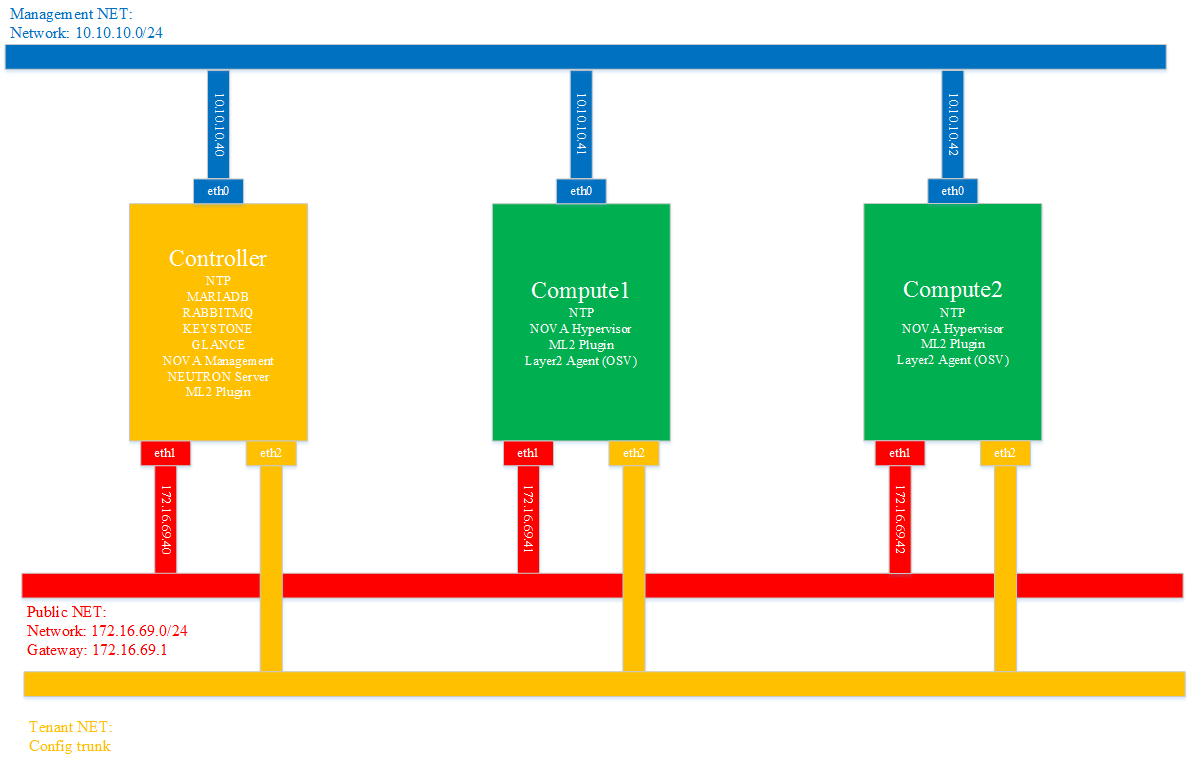
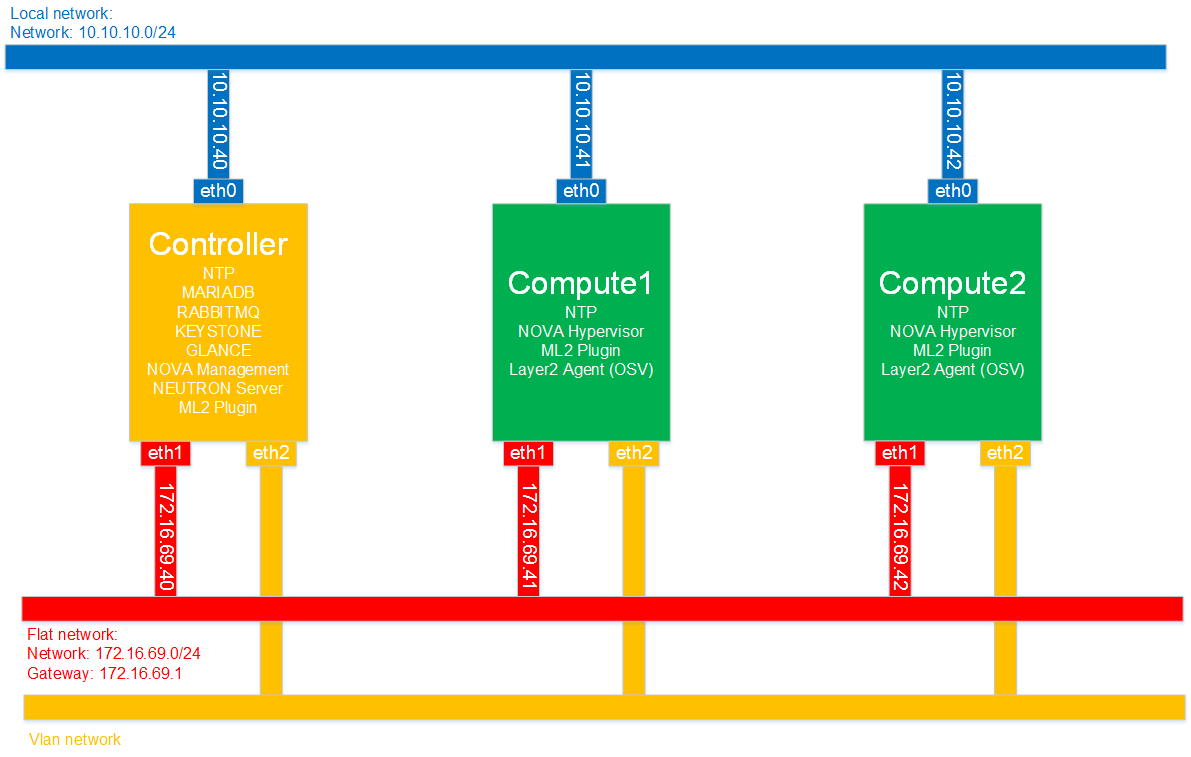
update

diff --git a/LAB-VLAN-OVS-Provider.md b/LAB-VLAN-OVS-Provider.md
@@ -47,6 +47,236 @@ Cấu hình card Loopback như một bridge trên Linux (switch Layer2).
 
 ### Cấu hình bridge
 
-- Sau khi tạo được Interface Loopback
+- Sau khi tạo được Interface Loopback, ta thiết lập một card bridge cho VMware workstation. Gắn card bridge này vào các Node để LAB Vlan. Đầu tiên bỏ interface loopback 
+trên Vmnet0
+
+![lab-vlan-8](/Images/lab-vlan-8.png)
+
+- Tạo thêm Vmnet3 ở chế độ bridge, gắn interface Loopback vào.
+
+![lab-vlan-9](/Images/lab-vlan-9.png)
+
+### Thiết lập cấu hình interface node
+
+- Cài đặt các máy ảo Ubuntu với một card mạng mặc định
+
+- Cài đặt xong, thực hiện thêm interface card mạng cho các Node như phía dưới
+
+![lab-vlan-10](/Images/lab-vlan-10.png)
+
+![lab-vlan-11](/Images/lab-vlan-11.png)
+
+![lab-vlan-12](/Images/lab-vlan-12.png)
+
+### Cài đặt OpenStack
+
+- Việc cài đặt tham khảo script tại [đây](https://github.com/congto/OpenStack-Mitaka-Scripts/tree/vlan/Ubuntu-OVS-VLAN)
+
+- Vì Controller tôi để 3GB RAM nên không cần cài đặt Horizon, giao tiếp mọi thứ qua CLI (command line interface).
+
+- Sau khi cài đặt xong, ta thực hiện tạo máy ảo theo Vlan được khai báo lúc tạo network.
+
+### Phân tích traffic
+
+- Mô hình các thành phần sau khi cài đặt xong OpenStack
+
+![lab-vlan-14](/Images/lab-vlan-14.png)
+
+- Sau đây tôi sẽ phân tích traffic từ VM tới DHCP theo các bước trong hình sau:
+
+![lab-vlan-15](/Images/lab-vlan-15.png)
+
+- Tôi sẽ nói lại một vài bước tạo network, subnet, instance.
+
+- Tạo network với Vlan 101:
+```sh
+root@controller1:~# neutron net-create provider_VLAN --shared \
+        --router:external True \
+        --provider:physical_network provider --provider:network_type vlan \
+        --provider:segmentation_id 101
+```
+
+- Sau khi tạo xong network, ta thực hiện tạo một subnet gán vào network vừa tạo
+```sh
+root@controller1:~# neutron subnet-create provider_VLAN 192.168.101.0/24 \
+        --name provider_subnet_VLAN101 \
+        --gateway 192.168.101.1 \
+        --dns-nameserver 8.8.8.8 \
+        --allocation-pool start=192.168.101.20,end=192.168.101.60
+```
+
+- Lấy ID của network vừa tạo
+```sh
+root@controller1:~# openstack network list
+```
+
+- Cuối cùng tạo một VM gắn theo ID của network vừa tạo
+```sh
+root@controller1:~# openstack server create --flavor m1.tiny --image cirros \
+  --nic net-id=f89104ab-b3fe-4086-9d8d-f738d09128f8 --security-group default \
+  VM1
+```
+
+- Lưu ý là phải có security cho phép ssh và ping
+```sh
+root@controller1:~# openstack security group rule create --proto icmp default
+root@controller1:~# openstack security group rule create --proto tcp --dst-port 22 default
+```
+
+- Sau khi tạo network xong, sẽ có một namespace DHCP thực hiện cấp IP cho các VM, và lấy metadata từ nova cho các VM. kiểm tra namespace
+```sh
+root@controller1:~# ip netns
+```
+
+- Tôi kiểm tra IP gán cho namespace DHCP, ID của namespace lấy từ lệnh trên
+```sh
+root@controller1:~# ip netns exec qdhcp-f89104ab-b3fe-4086-9d8d-f738d09128f8 ip a
+1: lo: <LOOPBACK,UP,LOWER_UP> mtu 65536 qdisc noqueue state UNKNOWN group default 
+    link/loopback 00:00:00:00:00:00 brd 00:00:00:00:00:00
+    inet 127.0.0.1/8 scope host lo
+       valid_lft forever preferred_lft forever
+    inet6 ::1/128 scope host 
+       valid_lft forever preferred_lft forever
+15: tap69a39669-e5: <BROADCAST,MULTICAST,UP,LOWER_UP> mtu 1500 qdisc noqueue state UNKNOWN group default 
+    link/ether fa:16:3e:e2:4d:33 brd ff:ff:ff:ff:ff:ff
+    inet 192.168.101.20/24 brd 192.168.101.255 scope global tap69a39669-e5
+       valid_lft forever preferred_lft forever
+    inet 169.254.169.254/16 brd 169.254.255.255 scope global tap69a39669-e5
+       valid_lft forever preferred_lft forever
+    inet6 fe80::f816:3eff:fee2:4d33/64 scope link 
+       valid_lft forever preferred_lft forever
+```
+
+- Lệnh thực hiện kiểm tra VM vừa tạo
+```sh
+root@controller1:~# openstack server list
+```
+
+- Tiến hành ssh vào VM từ namespace. ID của namespace và IP của VM có thể khác nhau tùy theo mỗi bài LAB
+```sh
+root@controller1:~# ip netns exec qdhcp-f89104ab-b3fe-4086-9d8d-f738d09128f8 ssh cirros@192.168.101.24
+```
+
+- Tôi kiểm tra interface trong VM
+```sh
+$ ip a
+1: lo: <LOOPBACK,UP,LOWER_UP> mtu 16436 qdisc noqueue 
+    link/loopback 00:00:00:00:00:00 brd 00:00:00:00:00:00
+    inet 127.0.0.1/8 scope host lo
+    inet6 ::1/128 scope host 
+       valid_lft forever preferred_lft forever
+2: eth0: <BROADCAST,MULTICAST,UP,LOWER_UP> mtu 1500 qdisc pfifo_fast qlen 1000
+    link/ether fa:16:3e:5f:0b:34 brd ff:ff:ff:ff:ff:ff
+    inet 192.168.101.24/24 brd 192.168.101.255 scope global eth0
+    inet6 fe80::f816:3eff:fe5f:b34/64 scope link 
+       valid_lft forever preferred_lft forever
+$
+```
+
+- Ở đây, bạn lưu ý địa chỉ MAC của VM là: **fa:16:3e:5f:0b:34**
+
+- Tôi sang node compute kiểm tra tap interface
+```sh
+root@compute1:~# ip a
+...
+23: tap431b983c-1f: <BROADCAST,MULTICAST,UP,LOWER_UP> mtu 1500 qdisc pfifo_fast master qbr431b983c-1f state UNKNOWN group default qlen 500
+    link/ether fe:16:3e:5f:0b:34 brd ff:ff:ff:ff:ff:ff
+    inet6 fe80::fc16:3eff:fe5f:b34/64 scope link 
+       valid_lft forever preferred_lft forever
+...
+```
+
+- Bạn để ý sẽ thấy địa chỉ MAC có sự tương đồng.
+
+- Vừa xong, tôi đã thực hiện các bước kiểm tra interface bên trong VM, kiểm tra tap interface. Chúng ta lấy được UUID của kết nối tới VM là *431b983c-1f*
+
+- Ta kiểm tra linux bridge mà tap interface của VM gắn vào
+```sh
+root@compute1:~# brctl show
+bridge name			bridge id			STP enabled			interfaces
+...
+qbr431b983c-1f		8000.6ea8baf4c97b	no					qvb431b983c-1f
+															tap431b983c-1f
+...
+```
+
+- Ở LB này, có 2 interface, một được gắn vào VM, một được gắn vào OVS br-int.
+```sh
+root@compute1:~# ip -d link show
+...
+14: qbr431b983c-1f: <BROADCAST,MULTICAST,UP,LOWER_UP> mtu 1500 qdisc noqueue state UP mode DEFAULT group default 
+    link/ether 6e:a8:ba:f4:c9:7b brd ff:ff:ff:ff:ff:ff promiscuity 0 
+    bridge 
+15: qvo431b983c-1f@qvb431b983c-1f: <BROADCAST,MULTICAST,PROMISC,UP,LOWER_UP> mtu 1500 qdisc pfifo_fast master ovs-system state UP mode DEFAULT group default qlen 1000
+    link/ether f2:62:61:2a:85:b3 brd ff:ff:ff:ff:ff:ff promiscuity 2 
+    veth 
+16: qvb431b983c-1f@qvo431b983c-1f: <BROADCAST,MULTICAST,PROMISC,UP,LOWER_UP> mtu 1500 qdisc pfifo_fast master qbr431b983c-1f state UP mode DEFAULT group default qlen 1000
+    link/ether 6e:a8:ba:f4:c9:7b brd ff:ff:ff:ff:ff:ff promiscuity 2 
+    veth
+...
+```
+
+- Kết nối giữa LB và OVS br-int là veth.
+
+- Có một điểm lưu ý là LB sử dụng iptables để thiết lập security. Phần kiểm tra iptables ta sẽ xem xét sau.
+
+- Tiếp đến ta kiểm tra ovs br-int
+```sh
+root@compute1:~# ovs-vsctl show
+...
+Bridge br-int
+        ...
+        Port br-int
+            Interface br-int
+                type: internal
+        Port patch-tun
+            Interface patch-tun
+                type: patch
+                options: {peer=patch-int}
+        Port "qvo431b983c-1f"
+            tag: 1
+            Interface "qvo431b983c-1f"
+        Port int-br-vlan
+            Interface int-br-vlan
+                type: patch
+                options: {peer=phy-br-vlan}
+        ...
+...
+```
+
+- Trên br-int có kết nối tới ovs br-tun và ovs br-vlan. Kết nối giữa các ovs sử dụng loại patch.
+
+- Ngay từ đầu ta tạo network với vlan là 101, nhưng khi đi qua ovs, sẽ được chuyển thành tag khác.
+```sh
+root@compute1:~# ovs-ofctl dump-flows br-int |grep in_port=1
+...
+cookie=0xbbd3c9c614f2dcd1, duration=2992.554s, table=0, n_packets=93, n_bytes=12746, idle_age=2704, priority=3,in_port=1,dl_vlan=101 actions=mod_vlan_vid:1,NORMAL
+...
+
+root@compute1:~# ovs-ofctl dump-flows br-int |grep in_port=4
+...
+ cookie=0xbbd3c9c614f2dcd1, duration=2881.039s, table=0, n_packets=0, n_bytes=0, idle_age=2881, priority=10,icmp6,in_port=4,icmp_type=136 actions=resubmit(,24)
+ cookie=0xbbd3c9c614f2dcd1, duration=2880.837s, table=0, n_packets=16, n_bytes=672, idle_age=2683, priority=10,arp,in_port=4 actions=resubmit(,24)
+ cookie=0xbbd3c9c614f2dcd1, duration=2881.230s, table=0, n_packets=121, n_bytes=13538, idle_age=2654, priority=9,in_port=4 actions=resubmit(,25)
+ cookie=0xbbd3c9c614f2dcd1, duration=2881.135s, table=24, n_packets=0, n_bytes=0, idle_age=2881, priority=2,icmp6,in_port=4,icmp_type=136,nd_target=fe80::f816:3eff:fe5f:b34 actions=NORMAL
+ cookie=0xbbd3c9c614f2dcd1, duration=2880.940s, table=24, n_packets=16, n_bytes=672, idle_age=2683, priority=2,arp,in_port=4,arp_spa=192.168.101.24 actions=resubmit(,25)
+ cookie=0xbbd3c9c614f2dcd1, duration=2881.421s, table=25, n_packets=137, n_bytes=14210, idle_age=2654, priority=2,in_port=4,dl_src=fa:16:3e:5f:0b:34 actions=NORMAL
+...
+```
+
+- Khi gói tin được tag vlan 101 đi vào thì được chuyển thành tag 1. nếu gói tin đi ra sẽ được tag ngược lại.
+
+- Tôi grep port do tôi vừa check được là kết nối từ LB tới OVS được gán port 4 ở br-int.
+
+- Tiếp đến gói tin sẽ từ br-int gửi tới br-vlan để đi ra ngoài. openflow trên br-vlan
+```sh
+root@compute1:~# ovs-ofctl dump-flows br-vlan
+NXST_FLOW reply (xid=0x4):
+ cookie=0x88698bea3de910a3, duration=3304.160s, table=0, n_packets=137, n_bytes=14210, idle_age=3016, priority=4,in_port=2,dl_vlan=1 actions=mod_vlan_vid:101,NORMAL
+ cookie=0x88698bea3de910a3, duration=3358.566s, table=0, n_packets=23, n_bytes=1814, idle_age=3289, priority=2,in_port=2 actions=drop
+ cookie=0x88698bea3de910a3, duration=3360.226s, table=0, n_packets=957, n_bytes=145089, idle_age=15, priority=0 actions=NORMAL
+```
+
+- Để ý sẽ thấy các gói tin có tag 1 sẽ được bóc tách và gắn vlan ban đầu 101, sau đó gửi ra ngoài.
 
 ## tham khảo
